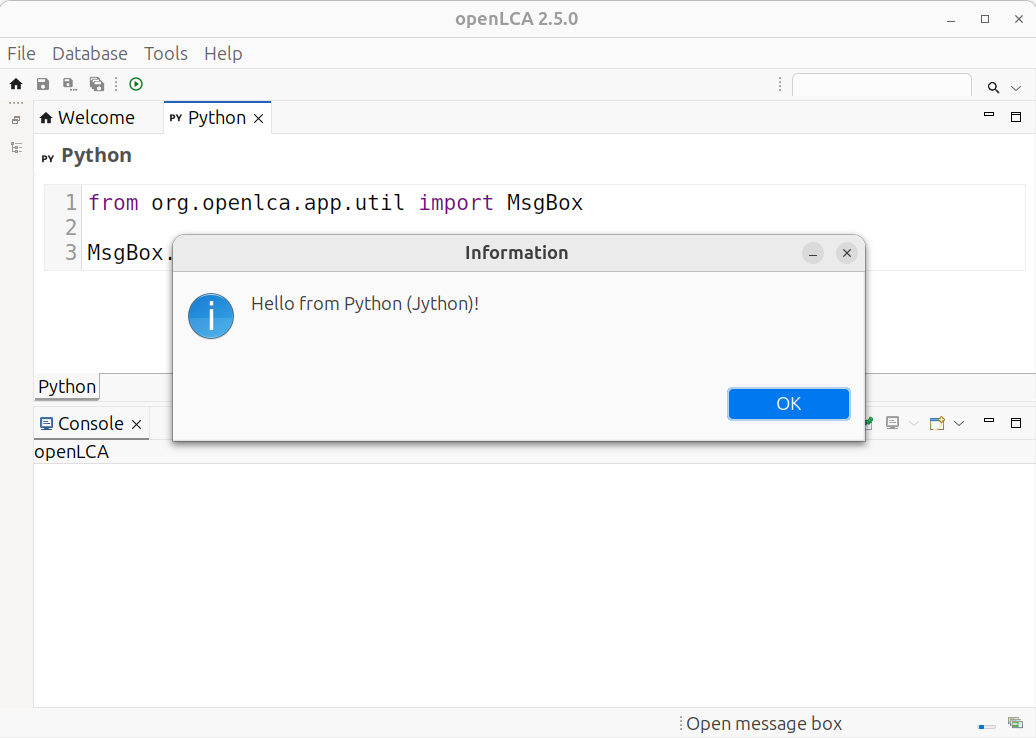
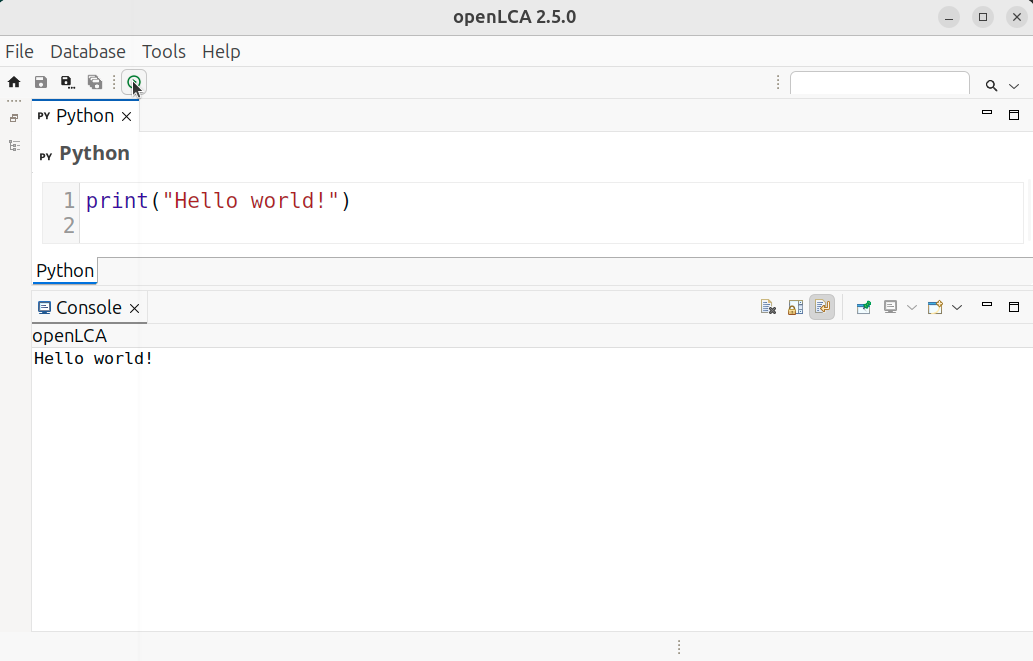
Move the MsgBox example to a different section (#1)

diff --git a/src/introduction/README.md b/src/introduction/README.md
@@ -30,18 +30,7 @@ print("Hello world!")
 
 When running this line of code, the openLCA console should appear with the message "Hello world!"
 
-The script is executed in the same Java process as openLCA. Thus, you have access to all the things
-that you can do with openLCA via this scripting API (and also to everything that you can do with the
-Java and Jython runtime). Here is a small example script that will show the information message box
-when you execute it in openLCA:
-
-```python
-from org.openlca.app.util import MsgBox
-
-MsgBox.info("Hello from Python (Jython)!")
-```
-
-![Hello from Jython](hello.png)
+![Hello world!](hello.png)
 
 ## Relation to standard Python
 

diff --git a/src/user_guide/openlca_ui/README.md b/src/user_guide/openlca_ui/README.md
@@ -1,0 +1,14 @@
+# Interacting with the openLCA UI
+
+The script is executed in the same Java process as openLCA. Thus, you have access to all the things
+that you can do with openLCA via this scripting API (and also to everything that you can do with the
+Java and Jython runtime). Here is a small example script that will show the information message box
+when you execute it in openLCA:
+
+```python
+from org.openlca.app.util import MsgBox
+
+MsgBox.info("Hello from Python (Jython)!")
+```
+
+![Hello from Jython](hello.png)

diff --git a/src/SUMMARY.md b/src/SUMMARY.md
@@ -20,6 +20,8 @@
   - [The `db` object](user_guide/database/db.md)
   - [Running SQL queries](user_guide/database/running_sql_queries.md)
 
+- [Interacting with the openLCA UI](user_guide/openlca_ui/README.md)
+
 - [Calculation and results](user_guide/result/README.md)
 
   - [Calculation](user_guide/result/calculation.md)
